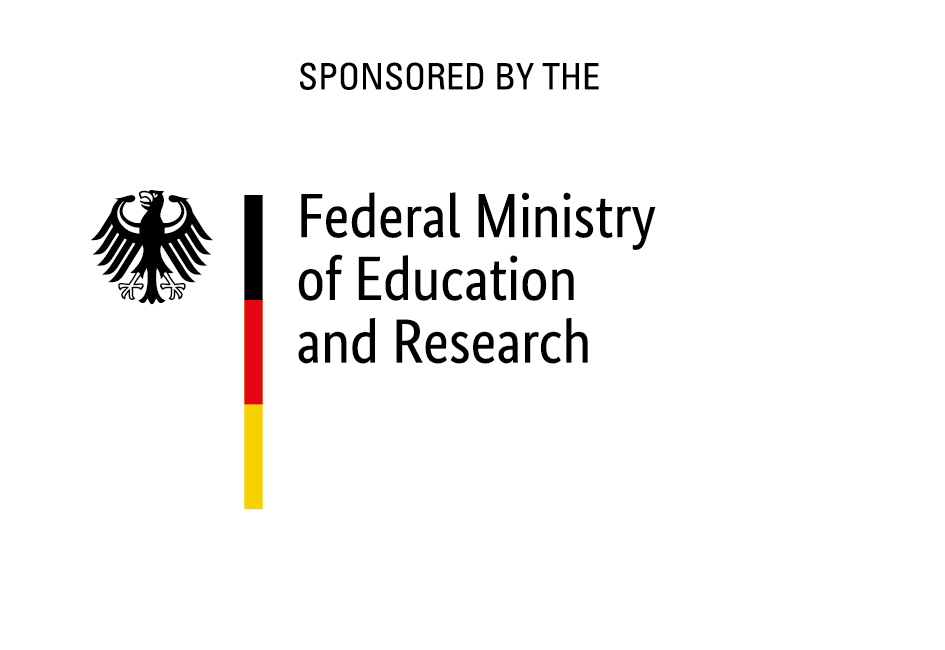
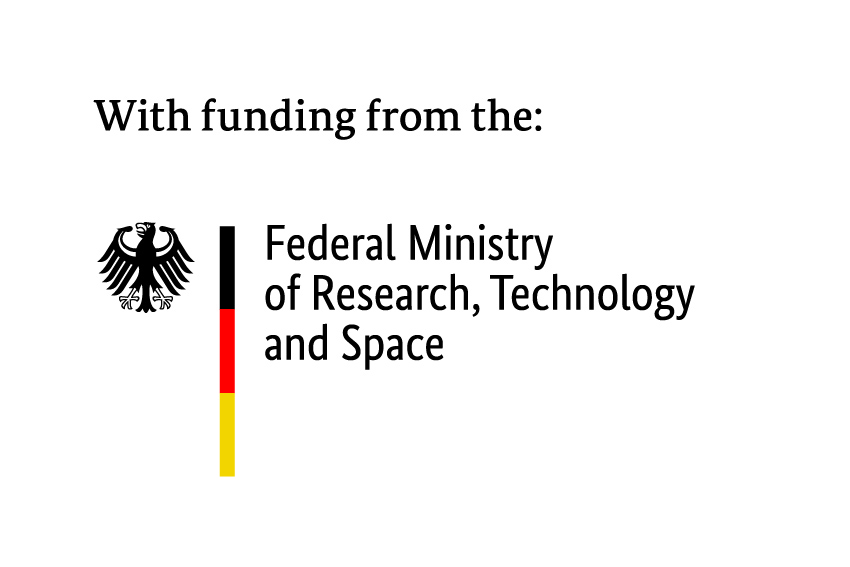
update ministry

diff --git a/pages/99_imprint.md b/pages/99_imprint.md
@@ -16,7 +16,7 @@ Boltzmannstr. 3<br>
 Germany
 
 ## Funding
-The project targetDART is funded by the German Federal Ministry of Education and Research (BMBF) under the SCALEXA funding call. The views and opinions expressed are solely those of the author(s) and do not necessarily reflect the views of the European Union or the European Commission. The German Federal Ministry of Education and Research (BMBF) can not be held responsible for them.
+The project targetDART is funded by the German Federal Ministry of Research, Technology and Space (BMFTR) under the SCALEXA funding call. The views and opinions expressed are solely those of the author(s) and do not necessarily reflect the views of the European Union or the European Commission. The German Federal Ministry of Research, Technology and Space (BMFTR) can not be held responsible for them.
 
 <img src="../assets/img/BMBF_gefördert vom_englisch.jpg" height="240" /> 
 
